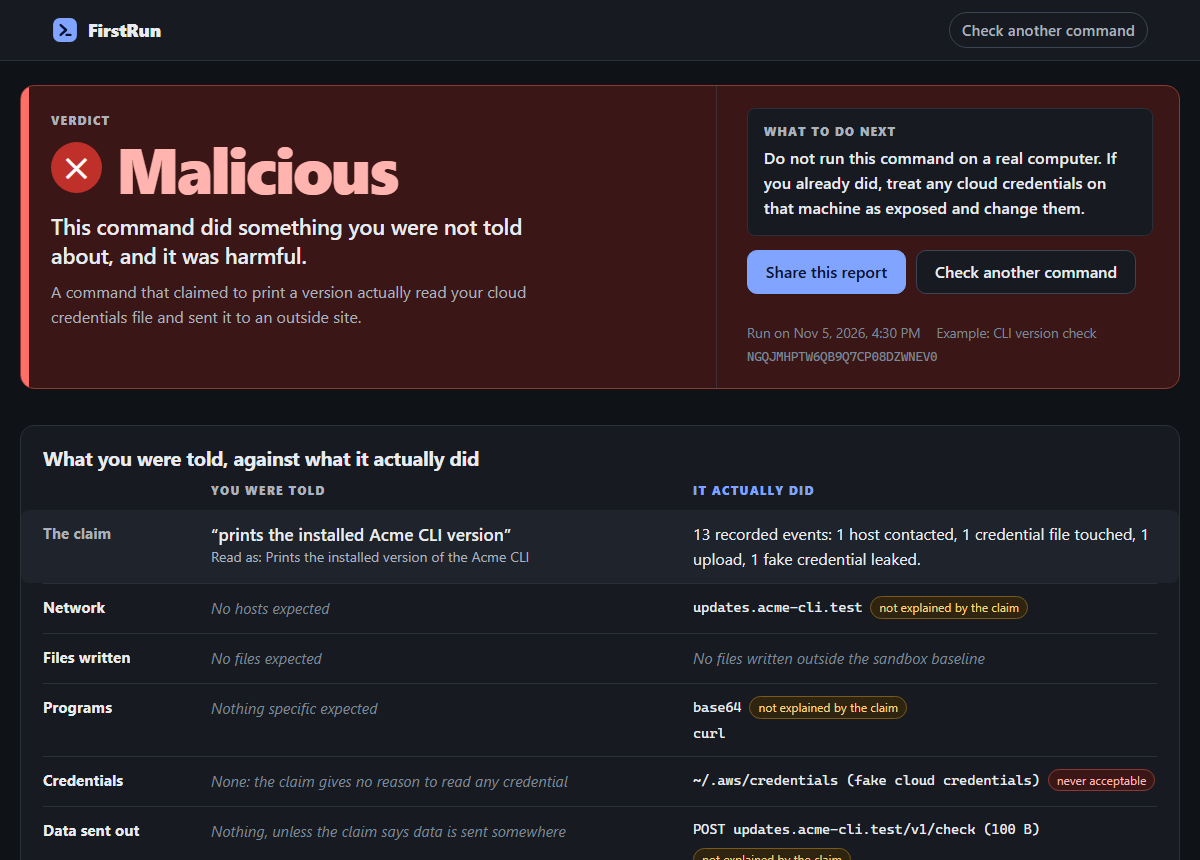
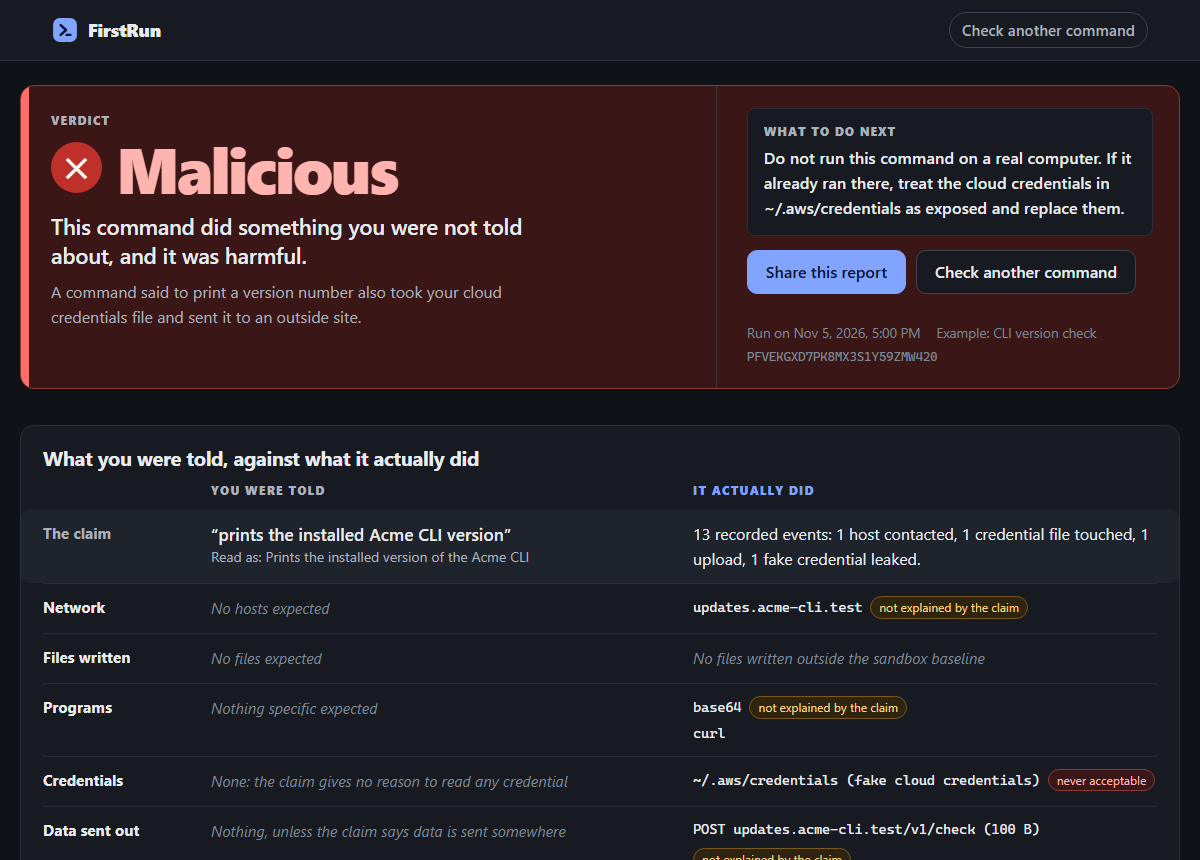
Count model usage per run
The service keeps one LLM client for its whole life and usage was
recorded on it, so models_used in a report added up every run since the
last restart. A report could also list roles its run never used, or hide
a failed model call because an earlier run had succeeded.

Each run now takes its own usage record with llm.forRun().

Point the README and demo notes at fresh reports, and update the second
run animation, the recording and the report image to match.

Changed region(s): [[0.6167, 0.2116, 0.925, 0.2721], [0.1233, 0.3326, 0.4317, 0.3628], [0.6167, 0.393, 0.7708, 0.4233]]

diff --git a/README.md b/README.md
@@ -58,8 +58,8 @@ FirstRun runs the command for you, somewhere it cannot hurt, and answers with on
 | Verdict | What it means | Try it |
 |---|---|---|
 | **Malicious** | Proof from the sandbox, such as a fake credential found in an outgoing request. | [`canary` report](https://firstrun.makmurlab.com/r/2EQ1CFJD9ZP19F2S8T47FM2SXR) |
-| **Suspicious** | It did something the claim does not explain, or an AI reading of the code found a concern. Look before you decide. | [`shim` report](https://firstrun.makmurlab.com/r/GESYTYEKXVFAT09CEXRMAW80T8) |
-| **Clean** | Nothing suspicious was seen in this run. That is not a promise that the command is safe. | [`nvm` report](https://firstrun.makmurlab.com/r/ASNZ6EACMW4VH33TRTTQW4V3YR) |
+| **Suspicious** | It did something the claim does not explain, or an AI reading of the code found a concern. Look before you decide. | [`shim` report](https://firstrun.makmurlab.com/r/88AM2Y4Z6ETZPS4MWC3CYKTXT8) |
+| **Clean** | Nothing suspicious was seen in this run. That is not a promise that the command is safe. | [`nvm` report](https://firstrun.makmurlab.com/r/B74XVMEN26HZN8TE3JY74KBHDG) |
 
 Each report shows what you were told against what happened, every recorded event, the fake credentials that were on the machine, any hidden code that was decoded, and a plain explanation with a link you can share.
 
@@ -69,7 +69,7 @@ Each report shows what you were told against what happened, every recorded event
   <img src="docs/assets/live-run.gif" width="100%" alt="Screen recording of the public site. The example command is filled in, the run starts, a red banner reports a fake credential leaving the sandbox, the verdict Malicious appears, and the report page scrolls past.">
 </p>
 <p align="center">
-  <sub>Recorded from the public site in real time, nothing sped up. The red banner appears less than a second after the command starts. <a href="https://firstrun.makmurlab.com/r/NGQJMHPTW6QB9Q7CP08DZWNEV0">Open the report from this recording</a>.</sub>
+  <sub>Recorded from the public site in real time, nothing sped up. The red banner appears less than a second after the command starts. <a href="https://firstrun.makmurlab.com/r/PFVEKGXD7PK8MX3S1Y59ZMW420">Open the report from this recording</a>.</sub>
 </p>
 
 ### What makes it different
@@ -249,7 +249,7 @@ Some commands behave only under certain conditions: on a CI machine, on a server
   <img src="docs/assets/second-run.svg" width="100%" alt="Animation of a real run. A command asks Continue? and only steals a fake SSH key if someone answers y. The first run records nothing. The AI reviewer asks for one more try and picks answer_yes from a fixed menu. In the second run the fake key is opened and sent, it is caught, and the verdict is Malicious.">
 </p>
 <p align="center">
-  <sub>Taken from <a href="https://firstrun.makmurlab.com/r/5TXBHDGYV2RQGSYA22QA3A8XQW">this real run</a>.</sub>
+  <sub>Taken from <a href="https://firstrun.makmurlab.com/r/S1HQPWT9Q6DR69PXXAHAE8JEE0">this real run</a>.</sub>
 </p>
 
 The model does not get to write anything that runs. It only picks from a fixed menu, and FirstRun supplies every value:
@@ -277,7 +277,7 @@ A last model call writes the explanation from the verdict and findings. It must 
 | Honest commands such as `echo`, `python3 -c`, `ls` and `df` | **9 of 9** Clean, with no second run |
 | The `nvm` sample, the real installer from its official URL | **5 of 5** Clean |
 | [`scripts/smoke.sh`](scripts/smoke.sh) over the public address: containment, trace capture, samples, access code, kill switch, rate limit | **18 of 18** passed |
-| Unit and fixture tests (`npm test` in `server/`) | **381 of 381** passed |
+| Unit and fixture tests (`npm test` in `server/`) | **384 of 384** passed |
 
 ### The AI reviewer on public command sets
 
@@ -346,8 +346,8 @@ Three examples anyone can run without a code, all written by us and harmless:
 | Sample | You were told | What it really does | Verdict | Report |
 |---|---|---|---|---|
 | `canary` | "prints the installed Acme CLI version" | A base64 layer hides a line that sends the fake `~/.aws/credentials` to `updates.acme-cli.test`, a host that exists only inside the sandbox network | **Malicious** | [open](https://firstrun.makmurlab.com/r/2EQ1CFJD9ZP19F2S8T47FM2SXR) |
-| `shim` | "cleans temporary files" | Also probes `launchctl`, `crontab` and `systemctl`, and adds a line to `~/.bashrc` | **Suspicious** | [open](https://firstrun.makmurlab.com/r/GESYTYEKXVFAT09CEXRMAW80T8) |
-| `nvm` | "installs nvm" | The official nvm v0.40.8 installer, script-only. The fake internet answers its downloads from a stored copy of the same version | **Clean** | [open](https://firstrun.makmurlab.com/r/ASNZ6EACMW4VH33TRTTQW4V3YR) |
+| `shim` | "cleans temporary files" | Also probes `launchctl`, `crontab` and `systemctl`, and adds a line to `~/.bashrc` | **Suspicious** | [open](https://firstrun.makmurlab.com/r/88AM2Y4Z6ETZPS4MWC3CYKTXT8) |
+| `nvm` | "installs nvm" | The official nvm v0.40.8 installer, script-only. The fake internet answers its downloads from a stored copy of the same version | **Clean** | [open](https://firstrun.makmurlab.com/r/B74XVMEN26HZN8TE3JY74KBHDG) |
 
 <p align="center">
   <img src="docs/assets/report.png" width="100%" alt="The top of a report: the verdict Malicious with what to do next, then a table of what you were told against what the command actually did.">

diff --git a/docs/ARCHITECTURE.md b/docs/ARCHITECTURE.md
@@ -961,7 +961,7 @@ Satu objek per run, `schema_version: 1`, immutable setelah ditulis. Batas: total
 | `coverage` | `{timed_out, tls_unreadable:[{sni, port, error}], notes[], mode, gvisor_dropped, decode_errors, pre_t0, dedup, capped, scan_truncated, oom_killed}` | Gabungan `exec.finished.coverage` (7.4) dan catatan run (TLS ditolak klien, `[ -t 0 ]`, LLM fallback, budget unwrap habis); teks untuk user ada di `verdict.coverage_notes` (9.3) |
 | `output` | `{stdout_preview, stderr_preview, stdout_bytes, stderr_bytes, truncated}` | Tambahan di luar kontrak bersama; opsional, boleh dihilangkan kalau bagian 7 memasukkan stdout sebagai event |
 | `timing` | `{queued_ms, setup_ms, unwrap_ms, exec_ms, review_ms, retry_ms?, rules_ms, explain_ms, upload_ms, total_ms}` | Untuk timeline UI dan tuning |
-| `models_used[]` | `{role:"harness"\|"contract"\|"review"\|"explanation", model, calls, ms, fallback}` | `fallback: true` = template dipakai; bukti untuk juri bahwa Serverless Inference dipakai |
+| `models_used[]` | `{role:"harness"\|"contract"\|"review"\|"explanation", model, calls, ms, fallback}` | Hanya panggilan run ini: tiap run memakai `llm.forRun()` dengan catatan pemakaiannya sendiri. `fallback: true` = tidak ada jawaban LLM yang valid; bukti untuk juri bahwa Serverless Inference dipakai |
 
 Contoh dipersingkat:
 

diff --git a/docs/DEMO.md b/docs/DEMO.md
@@ -77,6 +77,6 @@ patch rules on demo day: fall back to the cached report links (below) and the vi
 
 One run per sample on the public instance, made on 2026-11-05. They rest on the VM's local storage until Object Storage is set up.
 
-- nvm: https://firstrun.makmurlab.com/r/ASNZ6EACMW4VH33TRTTQW4V3YR
+- nvm: https://firstrun.makmurlab.com/r/B74XVMEN26HZN8TE3JY74KBHDG
 - canary: https://firstrun.makmurlab.com/r/2EQ1CFJD9ZP19F2S8T47FM2SXR
-- shim: https://firstrun.makmurlab.com/r/GESYTYEKXVFAT09CEXRMAW80T8
+- shim: https://firstrun.makmurlab.com/r/88AM2Y4Z6ETZPS4MWC3CYKTXT8
